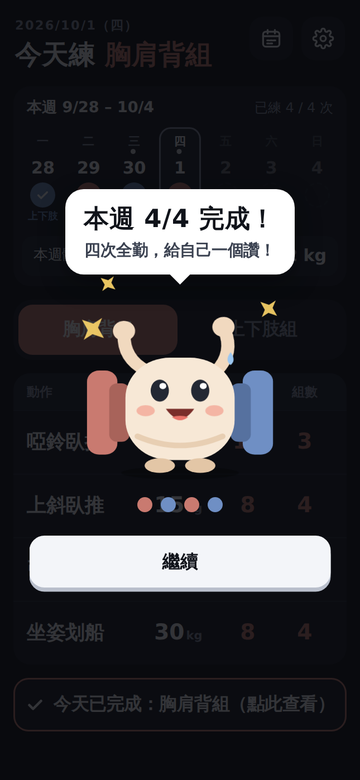
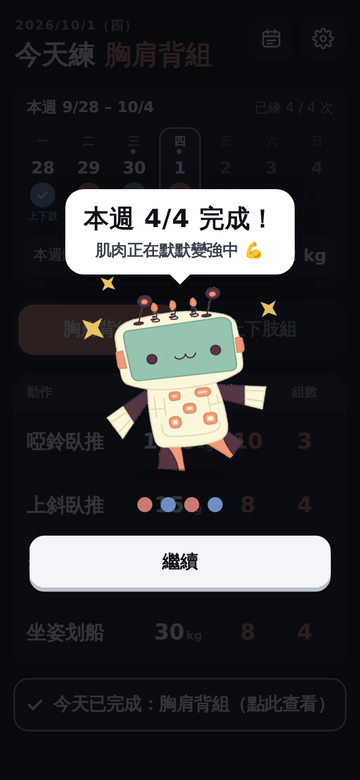
鼓勵動畫角色改為機器人
- 每週第 4 次的鼓勵動畫，角色從「小啞鈴」改成機器人插圖（已去背，圖片內嵌在網頁中）
- 機器人動畫：從下方彈跳上來、落地壓扁回彈，接著左右搖擺跳舞；腳下影子會跟著縮放
- README 的鼓勵動畫說明與截圖改為機器人

Changed region(s): [[0.2444, 0.3692, 0.7639, 0.6154], [0.2139, 0.3077, 0.7639, 0.3385]]

diff --git a/index.html b/index.html
@@ -259,10 +259,11 @@
   .bubble b { display: block; font-size: clamp(22px, 7.4vw, 30px); font-weight: 900; letter-spacing: .02em; white-space: nowrap; }
   .bubble span { display: block; font-size: clamp(16px, 5vw, 19px); font-weight: 700; margin-top: 4px; color: #3a4150; }
   .stage { position: relative; width: 230px; height: 230px; }
-  .mascot { width: 230px; height: 230px; display: block; transform-origin: 50% 100%; animation: jumpIn .9s cubic-bezier(.25,.9,.3,1.2) both, idle 1.4s 1.1s ease-in-out infinite; }
-  .mascot .arm-r { transform-origin: 136px 70px; animation: wave .5s 1s ease-in-out 4 alternate; }
-  .mascot .arm-l { transform-origin: 64px 70px; animation: flex .6s .9s ease-in-out 2 alternate; }
-  .mascot .eyes { transform-origin: 100px 98px; animation: blink 3.2s 2s infinite; }
+  .stage::after { content: ""; position: absolute; left: 50%; bottom: 2px; width: 150px; height: 14px; margin-left: -75px; border-radius: 50%;
+                  background: rgba(0,0,0,.35); animation: shadowPulse 1.2s 1.1s ease-in-out infinite; }
+  .mascot { position: absolute; left: 50%; bottom: 8px; height: 228px; width: auto; margin-left: -92px; display: block; transform-origin: 50% 100%;
+            -webkit-user-select: none; user-select: none; -webkit-touch-callout: none; pointer-events: none;
+            animation: jumpIn .9s cubic-bezier(.25,.9,.3,1.2) both, dance 1.2s 1.1s ease-in-out infinite; }
   .spark { position: absolute; width: 34px; height: 34px; opacity: 0; animation: sparkPop 1.1s ease-out both; }
   .spark path { fill: #ffd76a; }
   .spark.s1 { left: -6px; top: 30px; animation-delay: .7s; }
@@ -285,10 +286,15 @@
     86%  { transform: translateY(-10px) scale(.97, 1.04); }
     100% { transform: translateY(0) scale(1, 1); }
   }
-  @keyframes idle { 0%, 100% { transform: translateY(0) scale(1, 1); } 45% { transform: translateY(-12px) scale(.98, 1.03); } 60% { transform: translateY(0) scale(1.05, .95); } }
-  @keyframes wave { from { transform: rotate(-18deg); } to { transform: rotate(22deg); } }
-  @keyframes flex { from { transform: rotate(0); } to { transform: rotate(-14deg); } }
-  @keyframes blink { 0%, 92%, 100% { transform: scaleY(1); } 95% { transform: scaleY(.1); } }
+  @keyframes dance {
+    0%, 100% { transform: translateY(0) rotate(0) scale(1, 1); }
+    15%      { transform: translateY(0) rotate(-7deg) scale(1.04, .96); }
+    30%      { transform: translateY(-16px) rotate(-3deg) scale(.98, 1.03); }
+    50%      { transform: translateY(0) rotate(0) scale(1.05, .95); }
+    65%      { transform: translateY(0) rotate(7deg) scale(1.04, .96); }
+    80%      { transform: translateY(-16px) rotate(3deg) scale(.98, 1.03); }
+  }
+  @keyframes shadowPulse { 0%, 50%, 100% { transform: scaleX(1); opacity: 1; } 30%, 80% { transform: scaleX(.8); opacity: .6; } }
   @keyframes bubbleIn { from { opacity: 0; transform: scale(.4); } to { opacity: 1; transform: scale(1); } }
   @keyframes sparkPop { 0% { opacity: 0; transform: scale(.2) rotate(0); } 40% { opacity: 1; transform: scale(1.2) rotate(20deg); } 100% { opacity: .9; transform: scale(1) rotate(40deg); } }
   @keyframes dotPop { from { opacity: 0; transform: scale(0); } to { opacity: 1; transform: scale(1); } }
@@ -466,32 +472,8 @@
     <svg class="spark s2" viewBox="0 0 24 24" aria-hidden="true"><path d="M12 0l2.6 8.4L24 12l-9.4 3.6L12 24l-2.6-8.4L0 12l9.4-3.6z"/></svg>
     <svg class="spark s3" viewBox="0 0 24 24" aria-hidden="true"><path d="M12 0l2.6 8.4L24 12l-9.4 3.6L12 24l-2.6-8.4L0 12l9.4-3.6z"/></svg>
     <svg class="spark s4" viewBox="0 0 24 24" aria-hidden="true"><path d="M12 0l2.6 8.4L24 12l-9.4 3.6L12 24l-2.6-8.4L0 12l9.4-3.6z"/></svg>
-    <!-- 原創角色「小啞鈴」 -->
-    <svg class="mascot" viewBox="0 0 200 200" aria-hidden="true">
-      <ellipse cx="100" cy="190" rx="58" ry="7" fill="#000" opacity=".25"/>
-      <!-- 手臂 -->
-      <g class="arm-l"><path d="M66 78 Q44 64 46 38" stroke="#f1d9bf" stroke-width="13" fill="none" stroke-linecap="round"/><circle cx="46" cy="34" r="11" fill="#f1d9bf"/></g>
-      <g class="arm-r"><path d="M134 78 Q156 64 154 38" stroke="#f1d9bf" stroke-width="13" fill="none" stroke-linecap="round"/><circle cx="154" cy="34" r="11" fill="#f1d9bf"/></g>
-      <!-- 左右槓片 -->
-      <rect x="8" y="78" width="30" height="92" rx="12" fill="#c97a70"/>
-      <rect x="30" y="92" width="20" height="64" rx="8" fill="#a8635a"/>
-      <rect x="162" y="78" width="30" height="92" rx="12" fill="#6f8fc4"/>
-      <rect x="150" y="92" width="20" height="64" rx="8" fill="#56719f"/>
-      <!-- 身體（握把） -->
-      <rect x="46" y="64" width="108" height="112" rx="44" fill="#f7e8d6"/>
-      <path d="M58 150 Q100 170 142 150" stroke="#e8cfb3" stroke-width="6" fill="none" stroke-linecap="round"/>
-      <!-- 腳 -->
-      <ellipse cx="80" cy="182" rx="15" ry="8" fill="#e3c6a6"/><ellipse cx="120" cy="182" rx="15" ry="8" fill="#e3c6a6"/>
-      <!-- 臉 -->
-      <g class="eyes">
-        <ellipse cx="80" cy="100" rx="9" ry="12" fill="#232833"/><circle cx="83" cy="95" r="3.4" fill="#fff"/>
-        <ellipse cx="120" cy="100" rx="9" ry="12" fill="#232833"/><circle cx="123" cy="95" r="3.4" fill="#fff"/>
-      </g>
-      <ellipse cx="66" cy="122" rx="9" ry="6" fill="#f2a08f" opacity=".7"/><ellipse cx="134" cy="122" rx="9" ry="6" fill="#f2a08f" opacity=".7"/>
-      <path d="M86 120 Q100 142 114 120 Z" fill="#7a2e2a"/><path d="M92 129 Q100 136 108 129 Q100 126 92 129Z" fill="#e8746a"/>
-      <!-- 頭上的汗珠 -->
-      <path d="M150 58 q6 9 0 14 q-6 -5 0 -14z" fill="#9cc7f0"/>
-    </svg>
+    <!-- 鼓勵角色：機器人 -->
[1 lines of base64/hex data omitted]
   </div>
   <div class="week-dots" aria-hidden="true"><i></i><i></i><i></i><i></i></div>
   <button type="button" class="cheer-go" id="cheerGo">繼續</button>

diff --git a/README.md b/README.md
@@ -12,7 +12,7 @@
 
 | 主畫面 | 記錄實際訓練 | 每週練滿 4 次 |
 |:---:|:---:|:---:|
-| <img src="screenshots/main.png" width="240" alt="主畫面：本週打勾、本週體重、今天的菜單表格"> | <img src="screenshots/record.png" width="240" alt="紀錄頁：每一組的重量與次數都可以調整"> | <img src="screenshots/cheer.png" width="240" alt="每週第 4 次完成時，小啞鈴跳出來鼓勵"> |
+| <img src="screenshots/main.png" width="240" alt="主畫面：本週打勾、本週體重、今天的菜單表格"> | <img src="screenshots/record.png" width="240" alt="紀錄頁：每一組的重量與次數都可以調整"> | <img src="screenshots/cheer.png" width="240" alt="每週第 4 次完成時，機器人跳出來鼓勵"> |
 
 | 查看某天的紀錄與心得 | 歷史紀錄 |
 |:---:|:---:|
@@ -24,7 +24,7 @@
 - **本週打勾**：畫面上方顯示這週一到週日，練過的日子會打勾並標出練了哪一組，右上角顯示「已練 幾 / 4 次」。
 - **記錄實際做了多少**：練完按「今天練完了，記錄並打勾」，每一組的重量和次數都已照計畫填好；哪一組少做或多做，用 − ＋ 改掉就好（例如第 3 組只做了 7 下）。也可以多加一組、刪掉一組，或把沒做的動作整個刪掉。
 - **心得與筆記**：練完時可以在紀錄頁最下面寫「今日心得」；沒練的日子也能點那天寫筆記（例如「休息日，腿還有點痠」）。有筆記的日子在日期上會有一個小點，點進去就能讀到完整內容。
-- **每週練滿 4 次的鼓勵**：這週存下第 4 次紀錄時，會有一個小啞鈴角色跳出來為你加油，按「繼續」關閉。每週只會出現一次。
+- **每週練滿 4 次的鼓勵**：這週存下第 4 次紀錄時，會有一隻可愛的機器人跳出來跳舞為你加油，按「繼續」關閉。每週只會出現一次。
 - **每週體重**：每週第一次練完時會提醒你量體重；也可以隨時點「本週體重」輸入或修改。
 - **歷史紀錄**：用月曆看每天練了哪一組、哪幾天有筆記、每週練了幾次、每個月的總次數，以及每週的體重和跟前一週的差距。點月曆上的任一天，可以查看、補登或修改那天的紀錄和筆記。
 - **調整計畫**：點右上角齒輪，可以改每個動作的預定重量、次數、組數。
@@ -50,7 +50,7 @@
 3. 在紀錄頁把實際做的重量、次數改好（跟計畫一樣就不用改）；想記下感受的話，在最下面的「今日心得」寫幾句（可以不寫）。
 4. 按「儲存並打勾」。
 5. 如果是這週第一次練，會跳出體重輸入框，輸入體重（例如 70.5）後按「儲存」；不想記可以按「稍後再說」。
-6. 如果是這週第 4 次，小啞鈴會跳出來鼓勵你，按「繼續」即可。
+6. 如果是這週第 4 次，機器人會跳出來鼓勵你，按「繼續」即可。
 
 ### 沒練的日子想寫筆記
 
